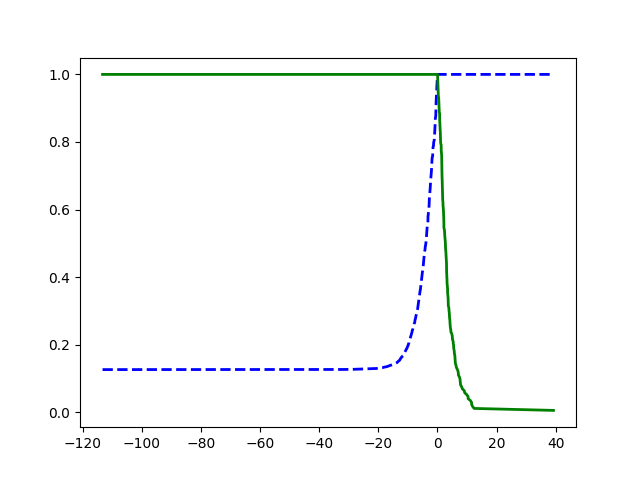
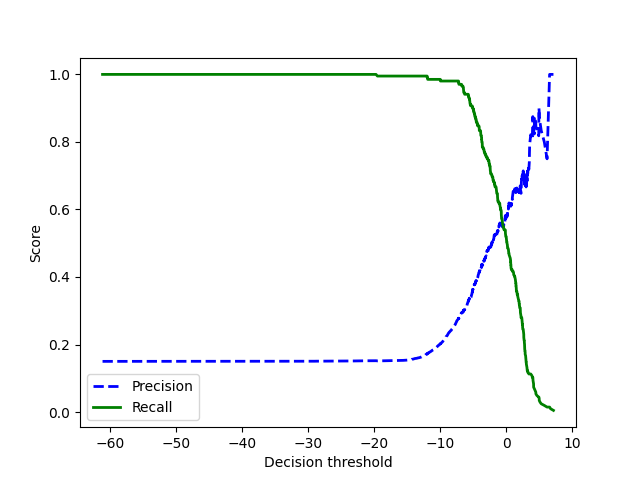
Fix feature, path and plotting bugs

diff --git a/classical_f1_predictor.py b/classical_f1_predictor.py
@@ -1,4 +1,4 @@
-co# standard library
+# standard library
 import subprocess
 from pathlib import Path
 
@@ -26,8 +26,8 @@ from extract_enrich import print_to_excel
 # ------------------------- constants --------------------------------
 
 # load in enriched dataset
-CSV_PATH = "/home/edward_c_holder/ml/ml_proj_2/data/output.csv"
-ENRICHED_DATA_PATH = "/home/edward_c_holder/ml/ml_proj_2/data/full_dataset_enriched.csv"
+CSV_PATH = "/home/edward_c_holder/ml/Geron_Part_1/ml_proj_2/data/output.csv"
+ENRICHED_DATA_PATH = "/home/edward_c_holder/ml/Geron_Part_1/ml_proj_2/data/full_dataset_enriched.csv"
 
 # -------------------------functions----------------------------------- 
 
@@ -112,13 +112,14 @@ if __name__ =="__main__":
 
     # note the following steps could be done using pipeline but, since this is a learning exercise I cose to explicate first
     # transform data from test set too!
-    X_train_imputed = pd.DataFrame(imputer.transform(X_train),columns=X_train.columns)
-    X_test_imputed = pd.DataFrame(imputer.transform(X_test),columns=X_test.columns)
+    X_train_imputed = pd.DataFrame(imputer.transform(X_train), columns=X_train.columns, index=X_train.index)
+    X_test_imputed  = pd.DataFrame(imputer.transform(X_test),  columns=X_test.columns,  index=X_test.index)
+
 
     # scale parameters, ml models cant handle big varience in dimensions
     std_scaler = StandardScaler()
-    X_train_scaled = pd.DataFrame(std_scaler.fit_transform(X_train_imputed),columns=X_train.columns)
-    X_test_scaled = pd.DataFrame(std_scaler.transform(X_test_imputed),columns=X_test.columns)
+    X_train_scaled = pd.DataFrame(std_scaler.fit_transform(X_train_imputed),columns=X_train.columns,index=X_train.index)
+    X_test_scaled = pd.DataFrame(std_scaler.transform(X_test_imputed),columns=X_test.columns,index=X_test.index)
 
     # ------------------ regression modelling ---------------------------
 
@@ -133,7 +134,7 @@ if __name__ =="__main__":
     # check performance on first 5 rows
     print("for five random instances:")
     print("\nLinearRegression predictions:\n\n",f1_lin_reg_predicts[sample_indices])
-    print("\nLinearRegression lables:\n\n",y_train_regressor[sample_indices])
+    print("\nLinearRegression lables:\n\n",y_train_regressor.iloc[sample_indices])
 
     # calculate rmse for liner regression
     lin_reg_rmse = root_mean_squared_error(y_train_regressor,f1_lin_reg_predicts)
@@ -232,14 +233,22 @@ if __name__ =="__main__":
     # square brakets cut off artifact created by sklearn and make all arrays the same size
     y_sgd_scores = cross_val_predict(sgd_clf,X_train_scaled,y_train_classifier,cv=3,method="decision_function",n_jobs=-1)
     precisions_sgd,recalls_sgd,thresholds_sgd = precision_recall_curve(y_train_classifier,y_sgd_scores)
+    plt.figure()
     plt.plot(thresholds_sgd,precisions_sgd[:-1],"b--",label="Precision",linewidth=2)
     plt.plot(thresholds_sgd,recalls_sgd[:-1],"g-",label="Recall",linewidth=2)
+    plt.xlabel("Decision threshold")
+    plt.ylabel("Score")
+    plt.legend()
     plt.savefig("./data/precision_recall_sgd.png")
     # steep drop off at threshold indicative of poor metric as a result of the skewed dataset
 
     # ROC also a common metric, but again, not useful with highly skewed data
     fpr,tpr,thresholds = roc_curve(y_train_classifier,y_sgd_scores)
+    plt.figure()
     plt.plot(fpr,tpr,linewidth=2,label="ROC")
+    plt.xlabel("False positive rate")
+    plt.ylabel("True positive rate (recall)")
+    plt.legend()
     plt.savefig("./data/roc_sgd.png")
     
     # checking area under curve for Reciever operating characteristic a good alternative but
@@ -257,9 +266,13 @@ if __name__ =="__main__":
     precisions_forest,recalls_forest,thresholds_forest = precision_recall_curve(
         y_train_classifier,y_score_forest
     )
+    plt.figure()
     plt.plot(recalls_forest,precisions_forest,"b-",linewidth=2,label="RandomForest")
     plt.plot(recalls_sgd,precisions_sgd,"--",linewidth=2,label="SGD")
-    plt.savefig("./data/roc_sgd.png")
+    plt.xlabel("Recall")
+    plt.ylabel("Precision")
+    plt.legend()
+    plt.savefig("./data/precision_recall_rf_vs_sgd.png")
     print("\nRandomForestClassifier roc/auc score:\n\n",roc_auc_score(y_train_classifier,y_score_forest))
 
     cm_forest = confusion_matrix(y_train_classifier,y_pred_custom)
@@ -298,3 +311,5 @@ if __name__ =="__main__":
     print("Precision:", precision_score(y_test_classifier, y_test_clf_predictions))
     print("Recall:", recall_score(y_test_classifier, y_test_clf_predictions))
     print("\n================================================================")
+
+    plt.show()

diff --git a/extract_enrich.py b/extract_enrich.py
@@ -42,7 +42,7 @@ if __name__ == "__main__":
     f1.Cache.enable_cache("./f1_cache")
 
     #location for excel path
-    csv_path = "/home/edward_c_holder/ml/ml_proj_2/data/output.csv"
+    csv_path = "/home/edward_c_holder/ml/Geron_Part_1/ml_proj_2/data/output.csv"
 
     ############## change pandas options to show whole dataframe '####################
     pd.set_option('display.max_rows', None)
@@ -111,13 +111,13 @@ if __name__ == "__main__":
     full_dataset = full_dataset.sort_values(["Season", "Round"]).reset_index(drop=True)
 
     #save dataframe to csv so it doesn't have to be reloaded each time
-    full_dataset.to_csv("/home/edward_c_holder/ml/ml_proj_2/data/full_dataset_raw.csv")
+    full_dataset.to_csv("/home/edward_c_holder/ml/Geron_Part_1/ml_proj_2/data/full_dataset_raw.csv")
 
     ##############################################################################################
 
     #reload dataframe
 
-    full_dataset = pd.read_csv("/home/edward_c_holder/ml/ml_proj_2/data/full_dataset_raw.csv")
+    full_dataset = pd.read_csv("/home/edward_c_holder/ml/Geron_Part_1/ml_proj_2/data/full_dataset_raw.csv")
 
     #create a rolling race average column
 
@@ -169,9 +169,9 @@ if __name__ == "__main__":
 
     print(full_dataset.columns.tolist())
 
-    full_dataset.to_csv("/home/edward_c_holder/ml/ml_proj_2/data/full_dataset_enriched.csv")
+    full_dataset.to_csv("/home/edward_c_holder/ml/Geron_Part_1/ml_proj_2/data/full_dataset_enriched.csv")
 
-    full_dataset = pd.read_csv("/home/edward_c_holder/ml/ml_proj_2/data/full_dataset_enriched.csv")
+    full_dataset = pd.read_csv("/home/edward_c_holder/ml/Geron_Part_1/ml_proj_2/data/full_dataset_enriched.csv")
 
     print_to_excel(csv_path,full_dataset)
 
